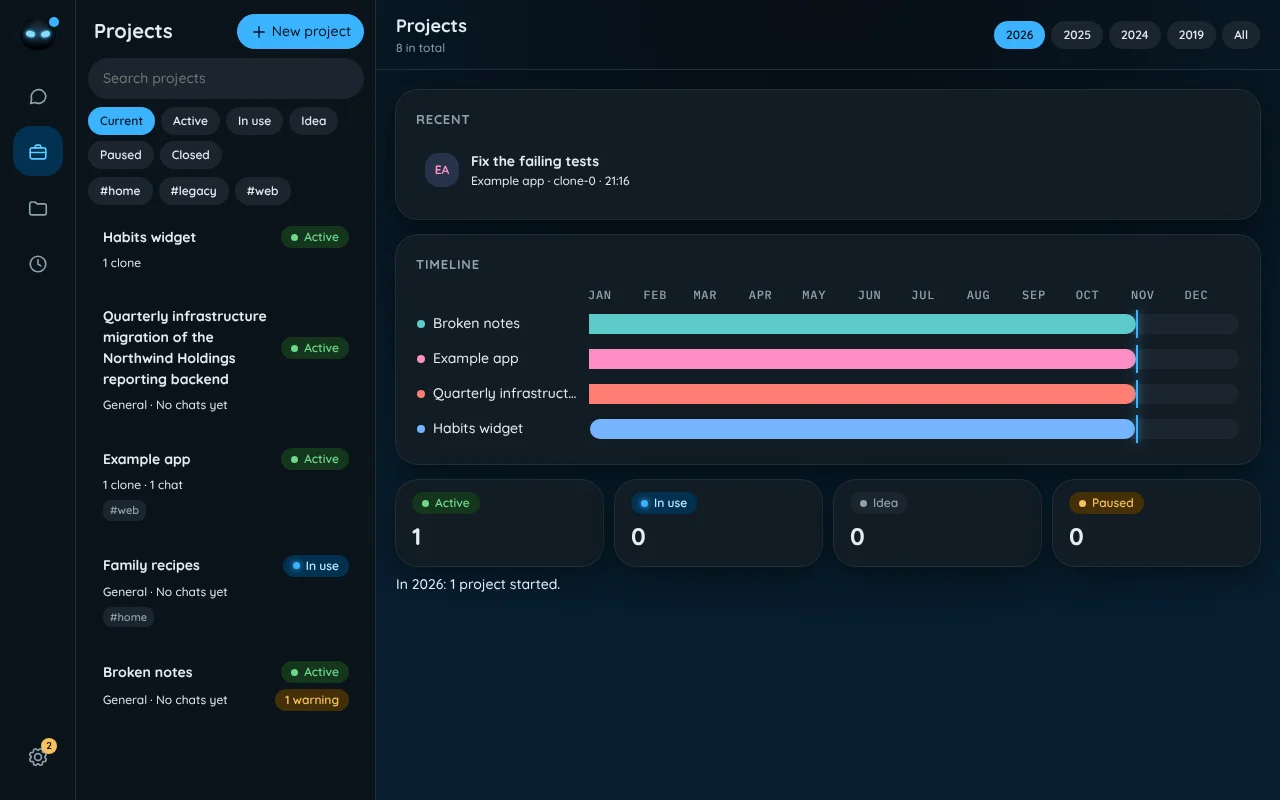
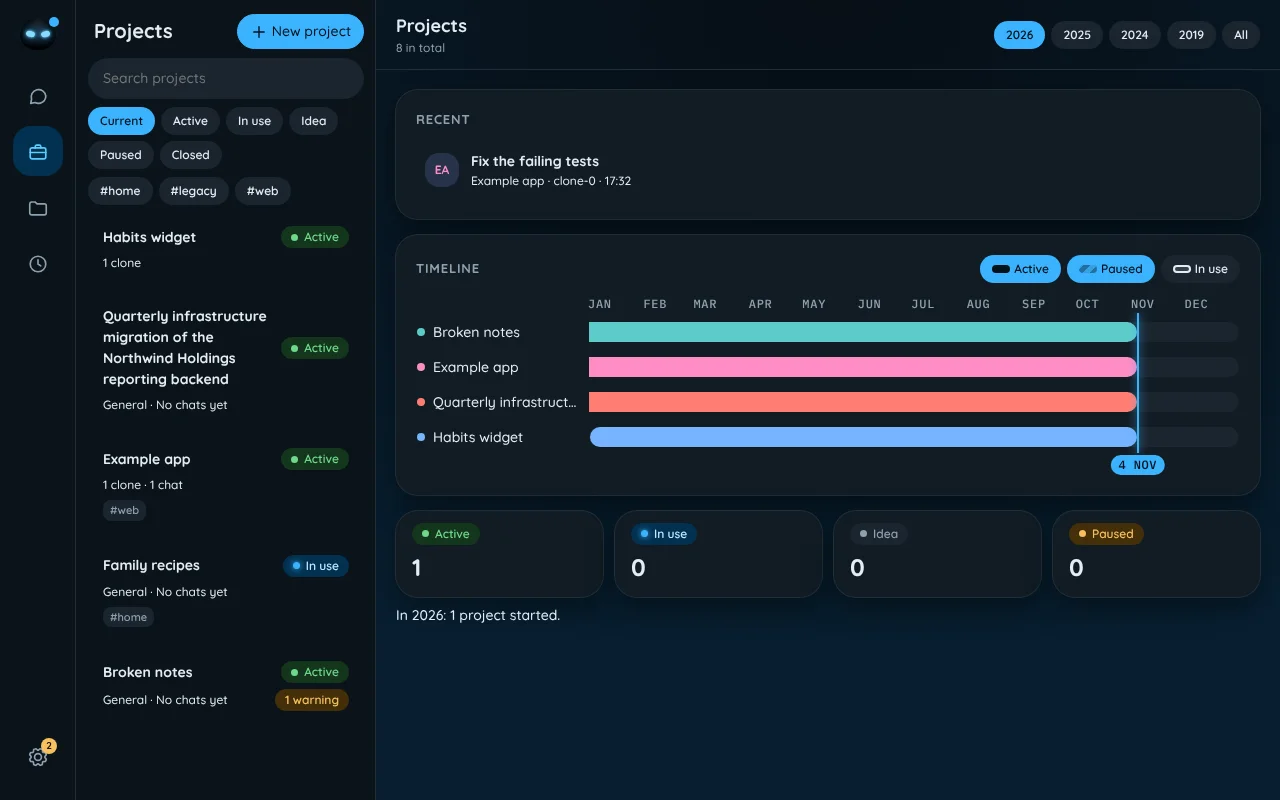
docs: show the new Projects timeline in the EVE guide (#857)
The timeline now has status chips, a pattern for each status and one
today line. The guide text and its captures show this.

Claude-Session: https://claude.ai/code/session_011YsmyivSVxw897GAAwsZnk

diff --git a/docs/design/eve/README.md b/docs/design/eve/README.md
@@ -313,8 +313,10 @@ Each page has a computer and a phone capture, in light and dark. The light captu
 
 ![Computer](screenshots/projects-home-computer-light.webp) ![Phone](screenshots/projects-home-phone-light.webp)
 
-- With no project open, a computer shows a home page: Needs you, Recent, a timeline of the active and paused projects, and the counts of a year. A phone shows only Needs you, above the list.
-- Each project of the timeline has one file type colour, by a hash of its folder name. A paused bar is a faint bar of that colour. The today line takes the accent.
+- With no project open, a computer shows a home page: Needs you, Recent, a timeline of the projects, and the counts of a year. A phone shows only Needs you, above the list.
+- Each project of the timeline has one file type colour, by a hash of its folder name. An active bar is solid. A paused bar has faint stripes. An in-use bar has an outline.
+- Status chips above the timeline add or remove a status. They show Active and Paused at first. Each chip shows the pattern of its bars.
+- The today line takes the accent. It runs across all the rows, with the date under it.
 
 ### A chat in a clone
 
